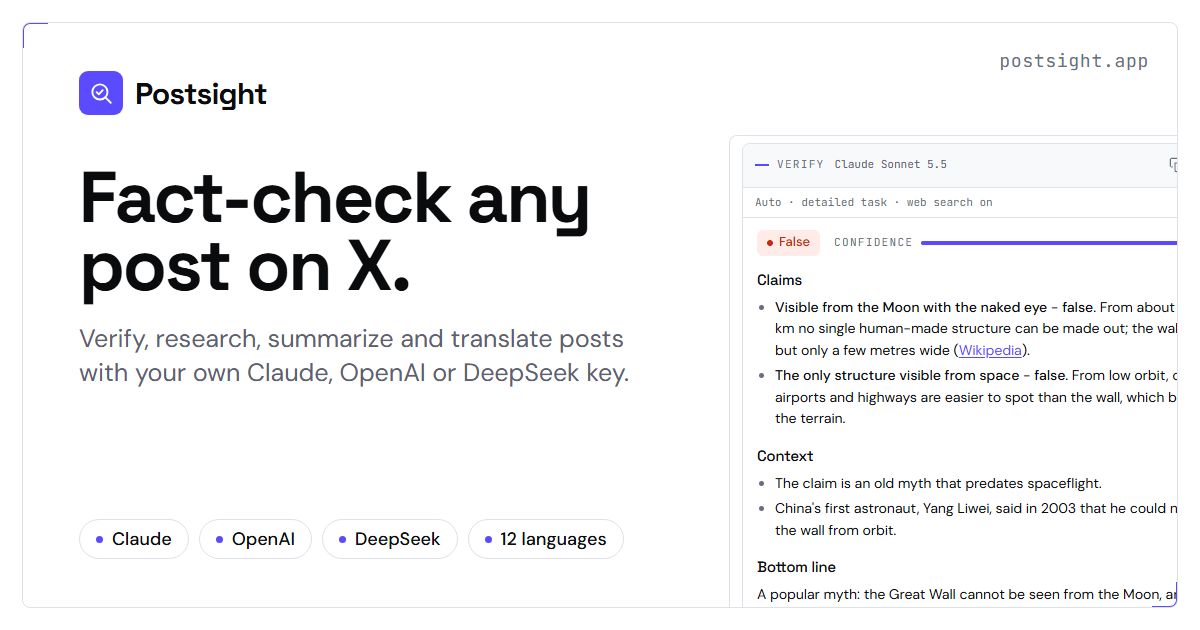
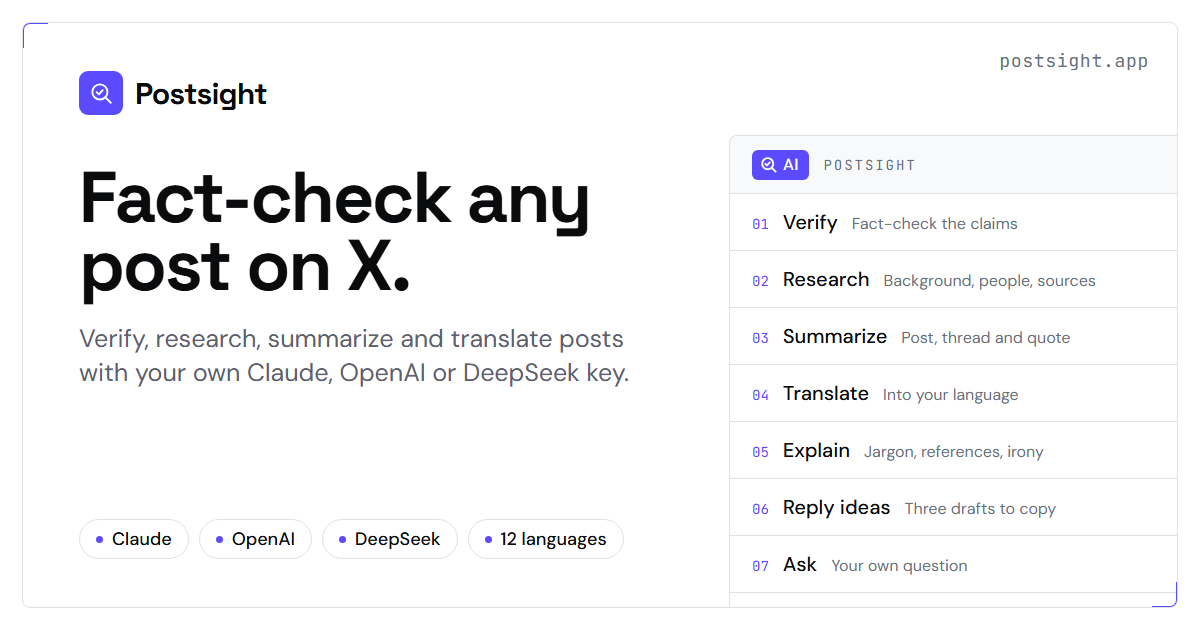
Show only real extension pages on the website and describe the AI badge

diff --git a/site/src/content.ts b/site/src/content.ts
@@ -36,7 +36,7 @@ export type Copy = {
     otherLangName: string;
   };
   hero: { eyebrow: string; title: string; lead: string; download: string; source: string; facts: string[]; shotAlt: string };
-  actions: { eyebrow: string; title: string; lead: string; items: Record<ActionId, string>; shotAlt: string };
+  actions: { eyebrow: string; title: string; lead: string; badgeNote: string; items: Record<ActionId, string> };
   routing: {
     eyebrow: string;
     title: string;
@@ -47,9 +47,8 @@ export type Copy = {
     costTitle: string;
     cost: string[];
     prices: (date: string) => string;
-    shotAlt: string;
   };
-  reads: { eyebrow: string; title: string; lead: string; langTitle: string; langLead: string; shotAlt: string };
+  reads: { eyebrow: string; title: string; lead: string; langTitle: string; langLead: string };
   privacy: { eyebrow: string; title: string; lead: string; facts: { label: string; text: string }[]; link: string; shotAlt: string };
   install: {
     eyebrow: string;
@@ -111,7 +110,7 @@ const en: Copy = {
   meta: {
     homeTitle: "Postsight: AI fact-check and research for posts on X",
     homeDescription:
-      "A Chrome and Edge extension that adds an AI button to posts on X: fact-check, research, summarize and translate them with your own Claude, OpenAI or DeepSeek key.",
+      "A Chrome and Edge extension that adds an AI badge to every post on X: fact-check, research, summarize and translate it with your own Claude, OpenAI or DeepSeek key.",
     privacyDescription:
       "What Postsight stores, what it sends to the AI provider you choose, and what it never does. No server, no account, no analytics.",
     supportTitle: "Support",
@@ -136,17 +135,18 @@ const en: Copy = {
   hero: {
     eyebrow: "Browser extension for X · Chrome and Edge",
     title: "Fact-check any post on X.",
-    lead: "Postsight adds a small AI button to every post. Verify, research, summarize, translate or explain it with your own Claude, OpenAI or DeepSeek key, and see what each answer cost.",
+    lead: "Postsight adds a violet AI badge to every post. Click it to verify, research, summarize, translate or explain the post with your own Claude, OpenAI or DeepSeek key, and see what each answer cost.",
     download: "Download the latest release",
     source: "Build from source",
     facts: ["MIT license", "No account", "No tracking", "12 languages"],
     shotAlt:
-      "A Verify card under a post on X: the claim is rated False with 92% confidence, followed by claim-by-claim notes, context and a bottom line.",
+      "The Auto routing page in Postsight's settings: the strategy, the provider order with saved keys, and the model Auto picks for each action with its estimated cost.",
   },
   actions: {
     eyebrow: "01 — On every post",
-    title: "What the AI button does",
-    lead: "Open the menu on any post and pick what you need. Each action sees the whole post: the thread, the quoted post, polls, community notes and images.",
+    title: "What the AI badge does",
+    lead: "Click the badge on any post and pick what you need. Each action sees the whole post: the thread, the quoted post, polls, community notes and images.",
+    badgeNote: "On every post, next to Grok and the more menu",
     items: {
       verify:
         "A verdict (accurate, misleading, false, opinion and more), a confidence score, claim-by-claim notes and the sources behind them, using live web search.",
@@ -158,8 +158,6 @@ const en: Copy = {
       ask: "Any question about the post.",
       copy: "The text, the link, or a ready-made quote.",
     },
-    shotAlt:
-      "The Postsight menu open on a post on X, listing Verify, Research, Summarize, Translate, Explain, Reply ideas and Ask with an estimated cost for each, and three copy buttons.",
   },
   routing: {
     eyebrow: "02 — Auto routing and cost",
@@ -176,8 +174,6 @@ const en: Copy = {
       "Saved results are reused, so the same request is not paid for twice.",
     ],
     prices: (date) => `Built-in prices checked ${date}, in USD per 1M tokens.`,
-    shotAlt:
-      "The Auto routing settings: strategy, provider order and a table of the model Auto picks for each action on a short post and on a long thread with images.",
   },
   reads: {
     eyebrow: "03 — Context and languages",
@@ -185,7 +181,6 @@ const en: Copy = {
     lead: "A link-only post is not judged by its headline. Postsight reads X Articles from X's public post page and, with your permission, the news and blog pages a post links to. Pages are fetched without your cookies.",
     langTitle: "12 languages",
     langLead: "For the interface and the answers. Translate goes into your language, or into your second language when the post is already in yours.",
-    shotAlt: "A Spanish post on X translated into Turkish by Postsight, with the link kept intact and the token count and cost shown below.",
   },
   privacy: {
     eyebrow: "04 — Privacy",
@@ -212,7 +207,7 @@ const en: Copy = {
       "Open `chrome://extensions` or `edge://extensions` and turn on **Developer mode**.",
       "Choose **Load unpacked** and pick the unzipped folder.",
       `The settings page opens. Paste a Claude, OpenAI or DeepSeek key and press **${enUi["prov.save"]}**; Postsight tests it and loads the model list.`,
-      "On x.com, every post now has a small **AI** button next to Grok and the more menu.",
+      "On x.com, every post now has a violet **AI** badge with the Postsight lens, next to Grok and the more menu.",
     ],
     sourceTitle: "From source",
     sourceLead: "Needs Node 22 or later and pnpm.",
@@ -276,7 +271,7 @@ const tr: Copy = {
   meta: {
     homeTitle: "Postsight: X gönderileri için yapay zekâ ile doğrulama ve araştırma",
     homeDescription:
-      "X'teki gönderilere AI butonu ekleyen Chrome ve Edge eklentisi: kendi Claude, OpenAI ya da DeepSeek anahtarınla doğrula, araştır, özetle ve çevir.",
+      "X'teki her gönderiye AI rozeti ekleyen Chrome ve Edge eklentisi: kendi Claude, OpenAI ya da DeepSeek anahtarınla doğrula, araştır, özetle ve çevir.",
     privacyDescription:
       "Postsight neyi saklar, seçtiğin yapay zekâ sağlayıcısına neyi gönderir ve neyi asla yapmaz. Sunucu, hesap ve analitik yok.",
     supportTitle: "Destek",
@@ -300,17 +295,18 @@ const tr: Copy = {
   hero: {
     eyebrow: "X için tarayıcı eklentisi · Chrome ve Edge",
     title: "X gönderilerini doğrula.",
-    lead: "Postsight, X'teki her gönderiye küçük bir AI butonu ekler. Kendi Claude, OpenAI ya da DeepSeek anahtarınla doğrula, araştır, özetle, çevir ya da açıkla; her yanıtın maliyetini gör.",
+    lead: "Postsight, X'teki her gönderiye mor bir AI rozeti ekler. Tıkla; gönderiyi kendi Claude, OpenAI ya da DeepSeek anahtarınla doğrula, araştır, özetle, çevir ya da açıkla ve her yanıtın maliyetini gör.",
     download: "Son sürümü indir",
     source: "Kaynaktan derle",
     facts: ["MIT lisansı", "Hesap yok", "Takip yok", "12 dil"],
     shotAlt:
-      "X'te bir gönderinin altında Postsight'ın Verify kartı: iddia yüzde 92 güvenle yanlış bulunmuş; altında iddia iddia notlar, bağlam ve sonuç var.",
+      "Postsight ayarlarındaki Otomatik yönlendirme sayfası: strateji, kayıtlı anahtarlarla sağlayıcı sırası ve Otomatik modun her işlem için seçtiği model ile tahmini maliyeti.",
   },
   actions: {
     eyebrow: "01 — Her gönderide",
-    title: "AI butonu ne yapar",
-    lead: "Herhangi bir gönderide menüyü aç ve ihtiyacın olanı seç. Her işlem gönderinin tamamını görür: flood, alıntılanan gönderi, anket, topluluk notu ve görseller.",
+    title: "AI rozeti ne yapar",
+    lead: "Herhangi bir gönderide rozete tıkla ve ihtiyacın olanı seç. Her işlem gönderinin tamamını görür: flood, alıntılanan gönderi, anket, topluluk notu ve görseller.",
+    badgeNote: "Her gönderide, Grok ve Daha fazla menüsünün yanında",
     items: {
       verify: "Karar (doğru, yanıltıcı, yanlış, görüş ve diğerleri), güven puanı, iddia iddia notlar ve dayandığı kaynaklar; canlı web aramasıyla.",
       research: "Arka plan, tarihli önemli bilgiler, kimlerin işin içinde olduğu ve görüşlerin nerede ayrıştığı.",
@@ -321,8 +317,6 @@ const tr: Copy = {
       ask: "Gönderiyle ilgili istediğin soru.",
       copy: "Metin, bağlantı ya da hazır alıntı.",
     },
-    shotAlt:
-      "X'te bir gönderide açık Postsight menüsü: Verify, Research, Summarize, Translate, Explain, Reply ideas ve Ask, her birinin tahmini maliyetiyle; altında üç kopyalama butonu.",
   },
   routing: {
     eyebrow: "02 — Otomatik yönlendirme ve maliyet",
@@ -339,8 +333,6 @@ const tr: Copy = {
       "Kaydedilen sonuçlar yeniden kullanılır; aynı istek için iki kez ödeme yapmazsın.",
     ],
     prices: (date) => `Yerleşik fiyatlar ${date} tarihinde kontrol edildi; 1M token başına USD.`,
-    shotAlt:
-      "Otomatik yönlendirme ayarları: strateji, sağlayıcı sırası ve kısa bir gönderi ile görselli uzun bir flood için Otomatik modun her işlemde seçtiği modelin tablosu.",
   },
   reads: {
     eyebrow: "03 — Bağlam ve diller",
@@ -348,7 +340,6 @@ const tr: Copy = {
     lead: "Sadece bağlantıdan oluşan bir gönderi başlığına göre değerlendirilmez. Postsight X Makalelerini X'in herkese açık gönderi sayfasından, izin verirsen gönderinin bağlantı verdiği haber ve blog sayfalarını da okur. Sayfalar çerezlerin olmadan çekilir.",
     langTitle: "12 dil",
     langLead: "Arayüz ve yanıtlar için. Çeviri senin diline yapılır; gönderi zaten senin dilindeyse ikinci diline.",
-    shotAlt: "X'te İspanyolca bir gönderi, Postsight ile Türkçeye çevrilmiş; bağlantı bozulmamış, token sayısı ve maliyet altta görünüyor.",
   },
   privacy: {
     eyebrow: "04 — Gizlilik",
@@ -375,7 +366,7 @@ const tr: Copy = {
       "`chrome://extensions` ya da `edge://extensions` sayfasını aç ve **Geliştirici modu** anahtarını aç.",
       "**Paketlenmemiş öğe yükle** düğmesine bas ve açtığın klasörü seç.",
       `Ayarlar sayfası açılır. Bir Claude, OpenAI ya da DeepSeek anahtarı yapıştır ve **${trUi["prov.save"]}** düğmesine bas; Postsight anahtarı dener ve model listesini yükler.`,
-      "Artık x.com'da her gönderide Grok ve diğer menünün yanında küçük bir **AI** butonu var.",
+      "Artık x.com'da her gönderide Grok ve Daha fazla menüsünün yanında Postsight merceğiyle mor bir **AI** rozeti var.",
     ],
     sourceTitle: "Kaynaktan",
     sourceLead: "Node 22 ya da üstü ve pnpm gerekir.",

diff --git a/site/src/pages.ts b/site/src/pages.ts
@@ -26,23 +26,24 @@ function modelLabel(provider: ProviderId, id: string): string {
 }
 
 /**
- * A screenshot in a hairline frame. Timeline shots are 1280x800 with the X column in the
- * middle, so the portrait frame crops to that column instead of showing empty margins.
+ * A screenshot of the extension's own pages in a hairline frame. Only real extension pages
+ * are shown; posts on X are not mocked up.
  */
-function shot(data: SiteData, name: string, alt: string, opts: { portrait?: boolean; eager?: boolean; ticks?: boolean } = {}): Markup {
+function shot(data: SiteData, name: string, alt: string, opts: { eager?: boolean; ticks?: boolean } = {}): Markup {
   const img = data.assets.shots[name];
-  if (!img) throw new Error(`missing screenshot ${name}`);
-  const cls = ["shot", opts.portrait ? "shot-portrait" : "shot-wide", opts.ticks ? "ticks" : ""].filter(Boolean).join(" ");
+  if (!img) throw new Error(`missing screenshot store/screenshots/${name}.png`);
+  const cls = opts.ticks ? "shot ticks" : "shot";
   return html`<figure class="${cls}"><img src="${img.url}" width="${img.width}" height="${img.height}" alt="${alt}" ${
     opts.eager ? html`fetchpriority="high"` : html`loading="lazy"`
   } decoding="async"></figure>`;
 }
 
-function sectionHead(id: string, eyebrow: string, title: string, lead: string): Markup {
+function sectionHead(id: string, eyebrow: string, title: string, lead: string, extra?: Markup): Markup {
   return html`<header class="section-head">
       <p class="eyebrow">${eyebrow}</p>
       <h2 class="display-medium h2" id="${id}">${title}</h2>
       <p class="lead-sm">${lead}</p>
+      ${extra}
     </header>`;
 }
 
@@ -64,23 +65,27 @@ export function homePage(lang: Lang, data: SiteData): Markup {
       ${c.hero.facts.map((f) => html`<li>${f}</li>`)}
     </ul>
   </div>
-  ${shot(data, "1-verify", c.hero.shotAlt, { portrait: true, eager: true, ticks: true })}
+  ${shot(data, "5-routing", c.hero.shotAlt, { eager: true, ticks: true })}
 </section>`;
 
   const actions = html`<section class="section frame" id="features" aria-labelledby="features-title">
-  <div class="split split-media-first">
-    <div>
-      ${sectionHead("features-title", c.actions.eyebrow, c.actions.title, c.actions.lead)}
-      <dl class="actions">
-        ${ACTION_IDS.map(
-          (id, i) => html`<div class="action">
-          <dt><span class="idx num">${String(i + 1).padStart(2, "0")}</span>${actionName(lang, id)}</dt>
-          <dd>${c.actions.items[id]}</dd>
-        </div>`,
-        )}
-      </dl>
-    </div>
-    ${shot(data, "2-menu", c.actions.shotAlt, { portrait: true })}
+  <div class="split split-top">
+    ${sectionHead(
+      "features-title",
+      c.actions.eyebrow,
+      c.actions.title,
+      c.actions.lead,
+      // Same look as the badge the extension puts on each post (src/content/content.css .trigger).
+      html`<p class="badge-row"><span class="trigger-badge">${ICONS.mark}AI</span><span class="small secondary">${c.actions.badgeNote}</span></p>`,
+    )}
+    <dl class="actions">
+      ${ACTION_IDS.map(
+        (id, i) => html`<div class="action">
+        <dt><span class="idx num">${String(i + 1).padStart(2, "0")}</span>${actionName(lang, id)}</dt>
+        <dd>${c.actions.items[id]}</dd>
+      </div>`,
+      )}
+    </dl>
   </div>
 </section>`;
 
@@ -107,20 +112,18 @@ export function homePage(lang: Lang, data: SiteData): Markup {
       <p class="card-foot xs muted mono">${c.routing.prices(PRICES_CHECKED)}</p>
     </div>
   </div>
-  ${shot(data, "5-routing", c.routing.shotAlt)}
 </section>`;
 
   const reads = html`<section class="section frame" aria-labelledby="reads-title">
-  <div class="split">
+  <div class="split split-top">
+    ${sectionHead("reads-title", c.reads.eyebrow, c.reads.title, c.reads.lead)}
     <div>
-      ${sectionHead("reads-title", c.reads.eyebrow, c.reads.title, c.reads.lead)}
       <h3 class="display-medium h3">${c.reads.langTitle}</h3>
       <p class="secondary">${c.reads.langLead}</p>
       <ul class="langs" role="list">
         ${LANGUAGES.map((l) => html`<li><span class="code mono">${l.code}</span><span lang="${l.locale}">${l.native}</span></li>`)}
       </ul>
     </div>
-    ${shot(data, "3-translate", c.reads.shotAlt, { portrait: true })}
   </div>
 </section>`;
 

diff --git a/site/src/og.ts b/site/src/og.ts
@@ -4,7 +4,7 @@
  */
 import { BRAND, DOMAIN } from "./config";
 import type { Lang } from "./config";
-import { COPY } from "./content";
+import { ACTION_IDS, COPY, actionName } from "./content";
 import { html, raw } from "./html";
 import { ICONS } from "./layout";
 
@@ -24,11 +24,12 @@ const C = {
 };
 
 /**
- * `fontCss` is src/ui/fonts.css with its URLs pointing at the font files; `shot` is the
- * verify screenshot as a data or file URL, cropped to its result card.
+ * `fontCss` is src/ui/fonts.css with its URLs pointing at the font files. The right side
+ * lists the actions under the AI badge, with the names and hints the extension's menu uses.
  */
-export function ogCardHtml(lang: Lang, fontCss: string, shot: string): string {
+export function ogCardHtml(lang: Lang, fontCss: string): string {
   const c = COPY[lang];
+  const actions = ACTION_IDS.filter((id) => id !== "copy");
   const chips = ["Claude", "OpenAI", "DeepSeek", c.hero.facts[c.hero.facts.length - 1] ?? ""];
   const page = html`<!doctype html>
 <html lang="${lang}">
@@ -54,8 +55,15 @@ p{margin-top:22px;font-size:25px;line-height:1.35;color:${C.secondary};max-width
 .chip{display:flex;align-items:center;gap:9px;height:40px;padding:0 16px;border:1px solid ${C.border};border-radius:999px;font-size:18px;font-weight:500}
 .chip i{width:7px;height:7px;border-radius:50%;background:${C.primary}}
 .domain{position:absolute;right:28px;top:26px;font-family:"JetBrains Mono",monospace;font-size:18px;letter-spacing:0.04em;color:${C.muted}}
-.shot{position:relative;flex:1;margin:64px 0 -48px;border:1px solid ${C.border};border-right:0;border-bottom:0;border-top-left-radius:8px;background:${C.surface};overflow:hidden}
-.shot img{position:absolute;left:-396px;top:-266px;width:1280px;height:800px}
+.menu{flex:1;margin:64px 0 -48px;border:1px solid ${C.border};border-right:0;border-bottom:0;border-top-left-radius:8px;background:${C.canvas};overflow:hidden}
+.menu-head{display:flex;align-items:center;gap:14px;height:58px;padding:0 22px;border-bottom:1px solid ${C.border};background:${C.surface}}
+.badge{display:flex;align-items:center;gap:5px;height:30px;padding:0 11px 0 7px;border-radius:6px;background:${C.primary};color:#fff;font-size:16px;font-weight:500;letter-spacing:0.02em}
+.badge svg{width:19px;height:19px;stroke-width:2.4}
+.menu-label{font-family:"JetBrains Mono",monospace;font-size:14px;letter-spacing:0.14em;text-transform:uppercase;color:${C.muted}}
+.row{display:flex;align-items:baseline;gap:14px;height:57px;padding:15px 22px 0;border-bottom:1px solid ${C.border}}
+.idx{font-family:"JetBrains Mono",monospace;font-size:14px;color:${C.primary}}
+.act{font-size:20px;font-weight:500}
+.hint{font-size:16px;color:${C.muted};white-space:nowrap}
 </style>
 </head>
 <body>
@@ -67,7 +75,12 @@ p{margin-top:22px;font-size:25px;line-height:1.35;color:${C.secondary};max-width
     <p>${c.meta.ogLine}</p>
     <div class="chips">${chips.map((chip) => html`<span class="chip"><i></i>${chip}</span>`)}</div>
   </div>
-  <div class="shot"><img src="${shot}" alt=""></div>
+  <div class="menu">
+    <div class="menu-head"><span class="badge">${ICONS.mark}AI</span><span class="menu-label" lang="en">${BRAND}</span></div>
+    ${actions.map(
+      (id, i) => html`<div class="row"><span class="idx">${String(i + 1).padStart(2, "0")}</span><span class="act">${actionName(lang, id)}</span><span class="hint">${c.ui[`action.${id}.hint` as const]}</span></div>`,
+    )}
+  </div>
   <span class="domain">${DOMAIN}</span>
 </div>
 </body>

diff --git a/site/src/site.css b/site/src/site.css
@@ -474,14 +474,17 @@ html[data-theme="dark"] .theme-toggle .i-sun {
     gap: 64px;
     align-items: center;
   }
-  .split-media-first > .shot {
-    order: -1;
+  .split-top {
+    align-items: start;
+  }
+  .split-top .section-head {
+    margin-bottom: 0;
+  }
+  .split-top .h3 {
+    margin-top: 0;
   }
   .split-wide-media {
     grid-template-columns: minmax(0, 0.85fr) minmax(0, 1.15fr);
-  }
-  .split > .shot-portrait {
-    justify-self: center;
   }
 }
 
@@ -496,15 +499,33 @@ html[data-theme="dark"] .theme-toggle .i-sun {
   width: 100%;
   border-radius: calc(var(--radius-md) - 1px);
 }
-/* Timeline shots keep the X column and drop the empty page margins either side. */
-.shot-portrait {
-  width: 100%;
-  max-width: 520px;
+/* The badge Postsight adds to each post, drawn with the extension's own .trigger values. */
+.badge-row {
+  display: flex;
+  flex-wrap: wrap;
+  align-items: center;
+  gap: 8px 12px;
+  margin-top: 20px;
 }
-.shot-portrait img {
-  aspect-ratio: 4 / 5;
-  object-fit: cover;
-  object-position: 50% 0;
+.trigger-badge {
+  display: inline-flex;
+  align-items: center;
+  gap: 4px;
+  height: 24px;
+  padding: 0 8px 0 5px;
+  border-radius: var(--radius-sm);
+  background: var(--primary-fill);
+  color: var(--primary-contrast);
+  font-size: 12px;
+  font-weight: 500;
+  letter-spacing: 0.02em;
+  line-height: 1;
+  white-space: nowrap;
+}
+.trigger-badge svg {
+  width: 15px;
+  height: 15px;
+  stroke-width: 2.4;
 }
 
 /* ---------- Hero ---------- */
@@ -542,13 +563,10 @@ html[data-theme="dark"] .theme-toggle .i-sun {
 }
 @media (min-width: 1024px) {
   .hero {
-    grid-template-columns: minmax(0, 1.1fr) minmax(0, 0.9fr);
+    grid-template-columns: minmax(0, 0.9fr) minmax(0, 1.1fr);
     align-items: center;
-    gap: 64px;
+    gap: 56px;
     padding-block: 80px 96px;
-  }
-  .hero > .shot {
-    justify-self: end;
   }
 }
 

diff --git a/site/src/seo.ts b/site/src/seo.ts
@@ -42,7 +42,7 @@ export function llms(version: string): string {
 
 > ${c.meta.homeDescription}
 
-${BRAND} is a free, open-source (MIT) Manifest V3 extension for Chrome and Edge. It adds an AI button to every post on x.com with these actions: Verify (fact-check with sources from live web search), Research, Summarize, Translate, Explain, Reply ideas (drafts to copy; it never posts) and Ask, plus Copy. It uses the user's own API key for Claude (Anthropic), OpenAI or DeepSeek; Auto mode routes light jobs to cheap models and fact-checks to stronger models with web search. Every result shows tokens, cost and time, with monthly budgets per provider. It reads X Articles and, with permission, the pages a post links to. Keys stay in the browser's extension storage; there is no ${BRAND} server, account, analytics or tracking. Interface and answers are available in ${LANGUAGES.length} languages: ${LANGUAGES.map((l) => l.english).join(", ")}. Current version: ${version}.
+${BRAND} is a free, open-source (MIT) Manifest V3 extension for Chrome and Edge. It adds a violet AI badge to every post on x.com with these actions: Verify (fact-check with sources from live web search), Research, Summarize, Translate, Explain, Reply ideas (drafts to copy; it never posts) and Ask, plus Copy. It uses the user's own API key for Claude (Anthropic), OpenAI or DeepSeek; Auto mode routes light jobs to cheap models and fact-checks to stronger models with web search. Every result shows tokens, cost and time, with monthly budgets per provider. It reads X Articles and, with permission, the pages a post links to. Keys stay in the browser's extension storage; there is no ${BRAND} server, account, analytics or tracking. Interface and answers are available in ${LANGUAGES.length} languages: ${LANGUAGES.map((l) => l.english).join(", ")}. Current version: ${version}.
 
 ## Pages
 
